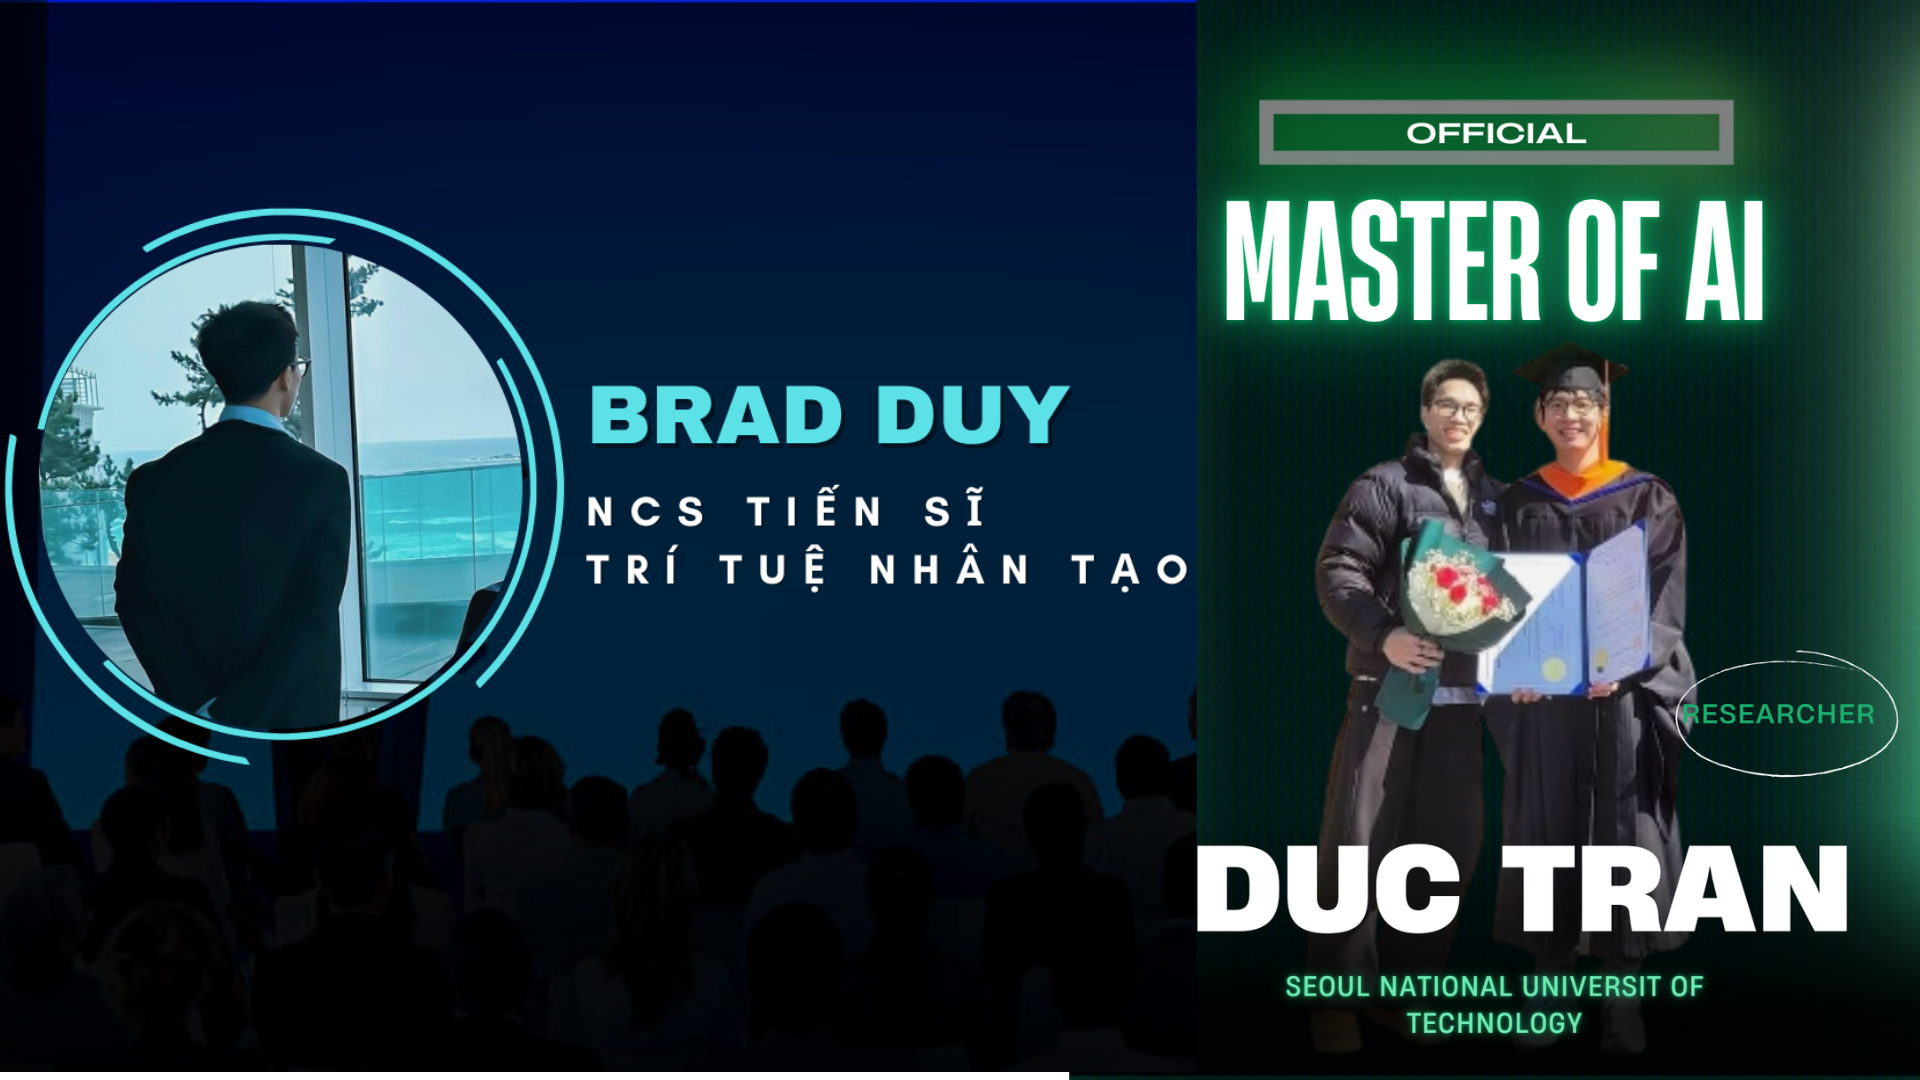
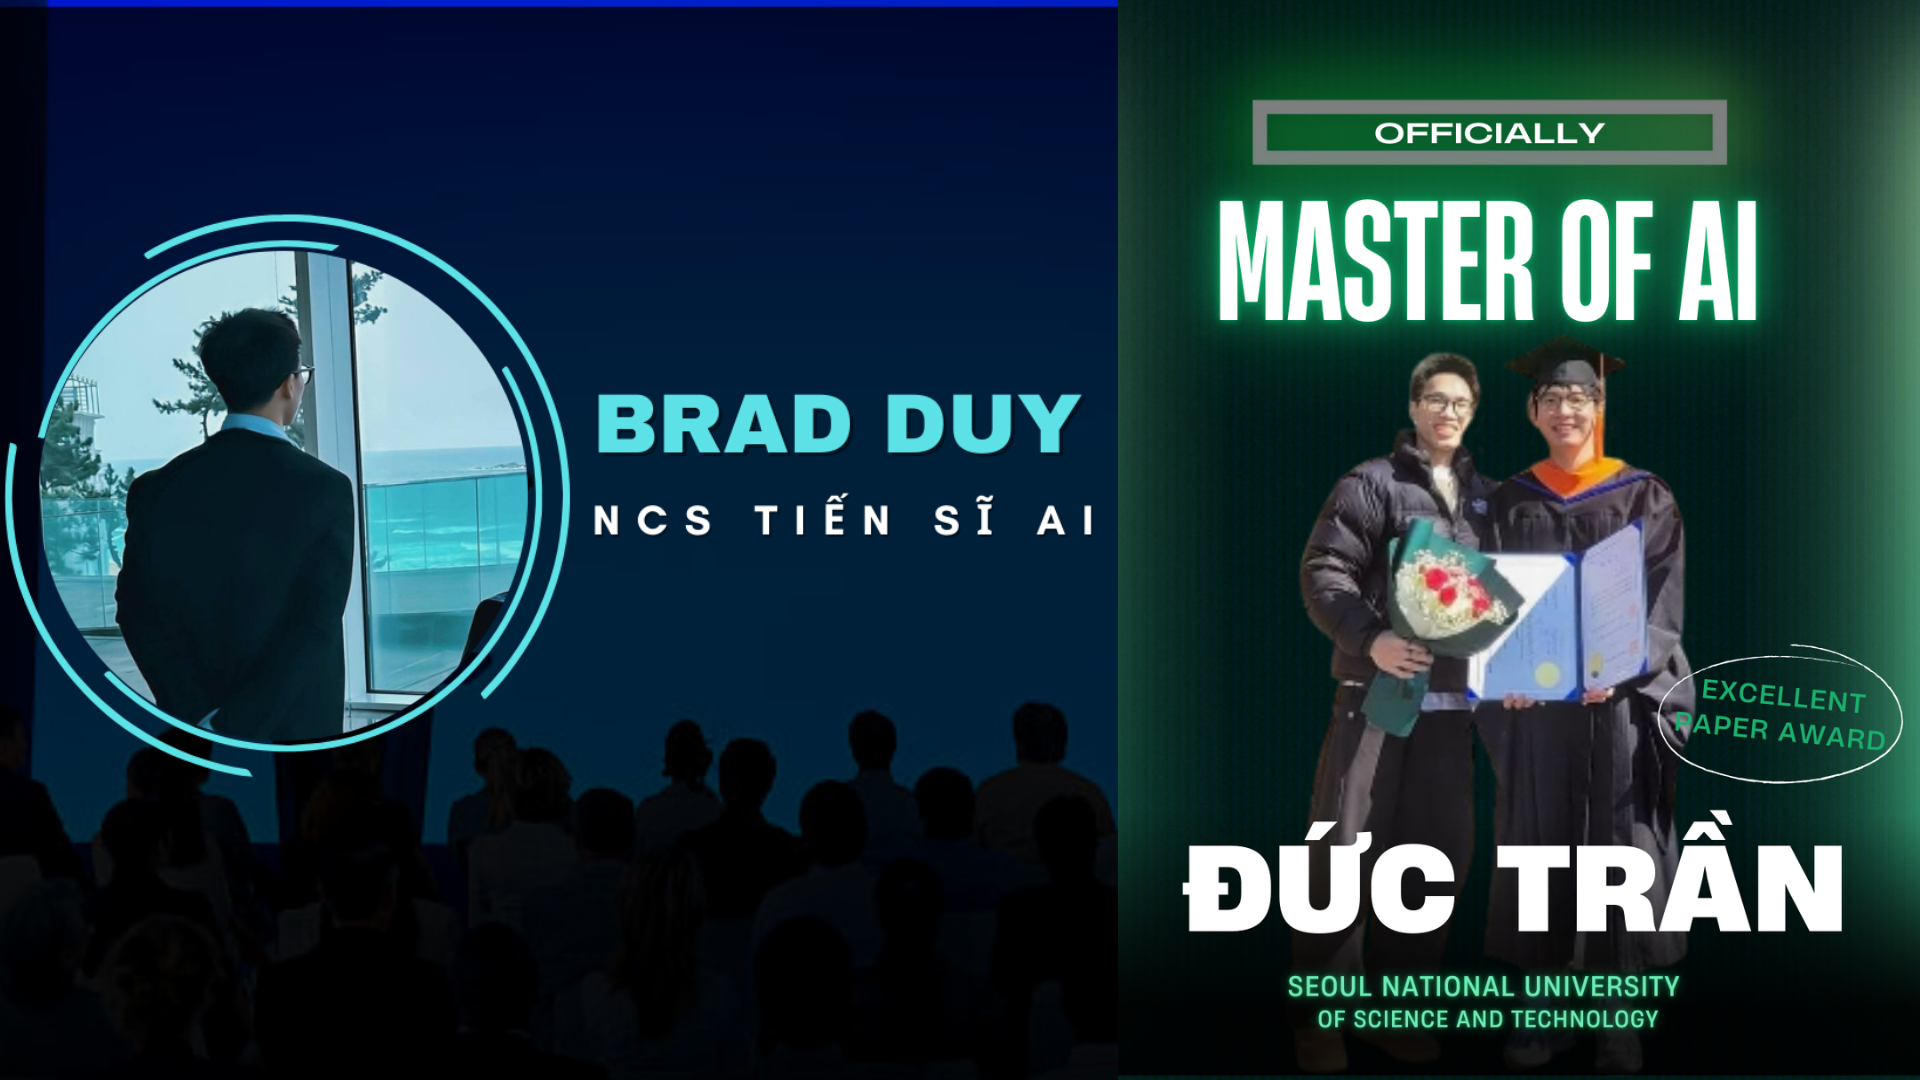
refine images

diff --git a/index.html b/index.html
@@ -116,12 +116,16 @@
                                     </div>
                                     <!-- Item 3 -->
                                     <div class="hidden duration-700 ease-in-out" data-carousel-item>
-                                        <img src="images/phdd.jpeg"
+                                        <img src="images/phdd_light.png"
                                             class="object-cover w-full h-full" alt="Slide 3">
                                     </div>
                                     <div class="hidden duration-700 ease-in-out" data-carousel-item>
                                         <img src="images/team.jpeg"
                                             class="object-cover w-full h-full" alt="Slide 4">
+                                    </div>
+                                    <div class="hidden duration-700 ease-in-out" data-carousel-item>
+                                        <img src="images/plan_light.png"
+                                            class="object-cover w-full h-full" alt="Slide 5">
                                     </div>
                                     <!-- <div class="hidden duration-700 ease-in-out" data-carousel-item>
                                         <img src="images/brd.png"
@@ -135,7 +139,7 @@
                                     <button type="button" class="w-3 h-3 rounded-full bg-gray-300 hover:bg-gray-400 focus:outline-none focus:bg-gray-400 transition"></button>
                                     <button type="button" class="w-3 h-3 rounded-full bg-gray-300 hover:bg-gray-400 focus:outline-none focus:bg-gray-400 transition"></button>
                                     <button type="button" class="w-3 h-3 rounded-full bg-gray-300 hover:bg-gray-400 focus:outline-none focus:bg-gray-400 transition"></button>
-                                    <!-- <button type="button" class="w-3 h-3 rounded-full bg-gray-300 hover:bg-gray-400 focus:outline-none focus:bg-gray-400 transition"></button> -->
+                                    <button type="button" class="w-3 h-3 rounded-full bg-gray-300 hover:bg-gray-400 focus:outline-none focus:bg-gray-400 transition"></button>
                                 </div>
                                 <!-- Slider controls -->
                                 <button type="button"
